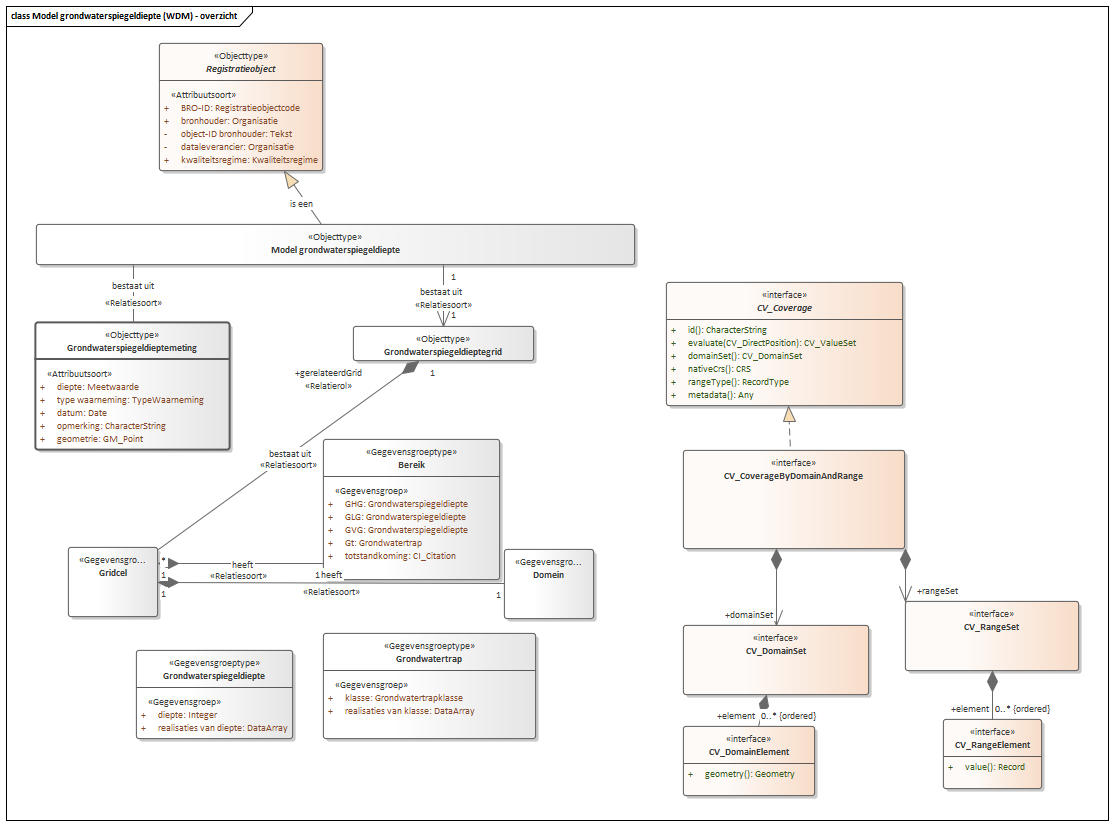
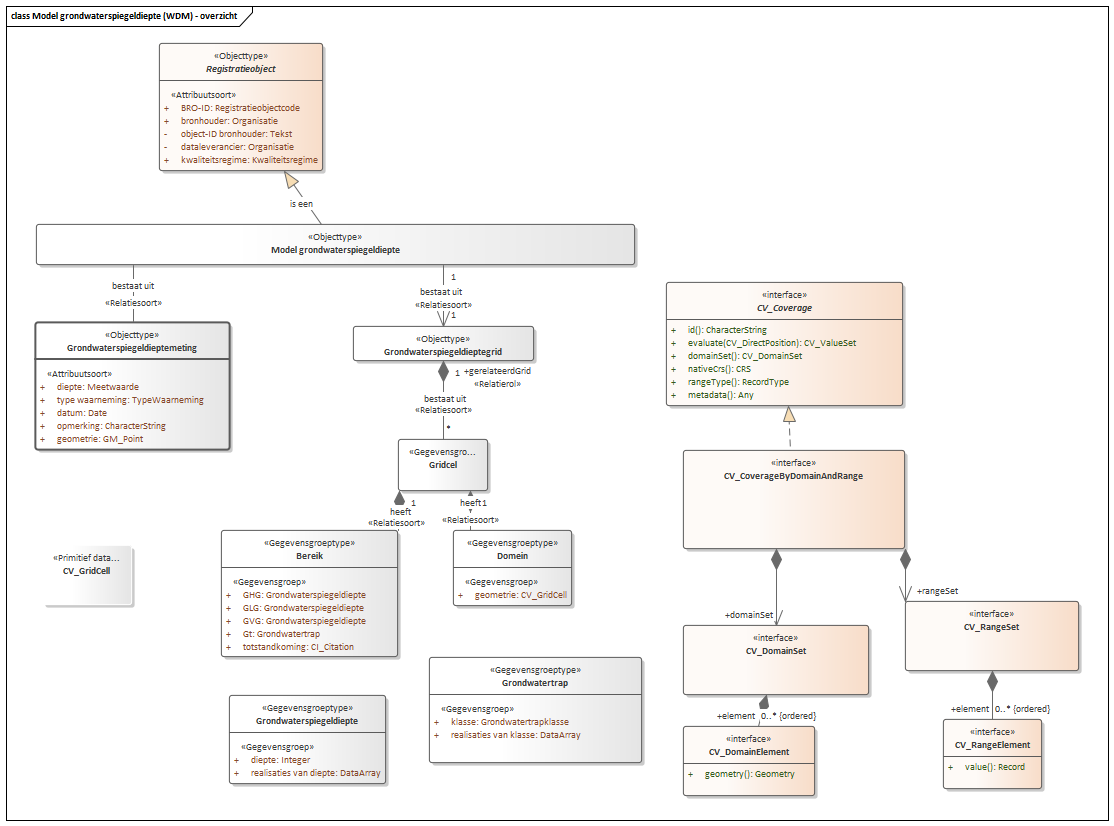
Conceptualmodel-ModelgrondwaterspiegeldiepteWDM-conceptueel-1.0-1-20200721-20201027-121304

diff --git a/data/WDM-cat.msword.html b/data/WDM-cat.msword.html
@@ -15,7 +15,7 @@
    <body>
       <p>Conceptual model/Model grondwaterspiegeldiepte (WDM) - conceptueel/20200721</p>
       <p>Imvertor: 1.61.3</p>
-      <p>Model release: Conceptualmodel-ModelgrondwaterspiegeldiepteWDM-conceptueel-1.0-1-20200721-20201027-120810</p>
+      <p>Model release: Conceptualmodel-ModelgrondwaterspiegeldiepteWDM-conceptueel-1.0-1-20200721-20201027-121304</p>
       <hr>
       <section>
          <h1>Artikel 1 Definitie van registratieobject, entiteiten en attributen</h1>
@@ -50,7 +50,7 @@
          <section>
             <h2>Het domeinmodel</h2>
             <section id="">
-               <div class="imageinfo overview"><img src="Images/EAID_32DF32C8_5066_4b21_A5D5_EE7F2DB49F77.png" usemap="#imagemap-EAID_32DF32C8_5066_4b21_A5D5_EE7F2DB49F77" alt="Diagram "><map name="imagemap-EAID_32DF32C8_5066_4b21_A5D5_EE7F2DB49F77"><area shape="rect" alt="Grondwaterspiegeldiepte" coords="136,650,293,739" href="#graph_EAID_F09743D7_6B95_4243_A403_BEC64D04F7FF"><area shape="rect" alt="Gridcel" coords="68,547,158,617" href="#graph_EAID_D0A6330A_6492_45f1_980C_0E417377CA37"><area shape="rect" alt="Domein" coords="504,549,594,619" href="#graph_EAID_E3897485_3C5F_43f3_9182_9E6E754D984F"><area shape="rect" alt="Grondwaterspiegeldieptegrid" coords="353,326,534,361" href="#graph_EAID_330757FF_F73A_4c69_AFB0_B255971A3DF7"><area shape="rect" alt="Grondwatertrap" coords="323,633,536,739" href="#graph_EAID_58AEC090_D83F_4707_B418_3D9C79CC58CE"><area shape="rect" alt="Bereik" coords="323,439,500,580" href="#graph_EAID_C0D21A75_9A6A_446d_8157_B61183B58A48"><area shape="rect" alt="Grondwaterspiegeldieptemeting" coords="35,322,230,450" href="#graph_EAID_BEAD8A51_C8E2_4fb6_8DF2_52ED4E1FB678"><area shape="rect" alt="Registratieobject" coords="159,43,323,171" href="#graph_EAID_3A7AEE32_4ECA_4822_9009_121A0679605E"><area shape="rect" alt="Model grondwaterspiegeldiepte" coords="36,224,635,265" href="#graph_EAID_FCE5BAFD_33CD_4c9b_878F_04A61B1ED0BE"></map><p><b>Model grondwaterspiegeldiepte (WDM)</b></p>
+               <div class="imageinfo overview"><img src="Images/EAID_32DF32C8_5066_4b21_A5D5_EE7F2DB49F77.png" usemap="#imagemap-EAID_32DF32C8_5066_4b21_A5D5_EE7F2DB49F77" alt="Diagram "><map name="imagemap-EAID_32DF32C8_5066_4b21_A5D5_EE7F2DB49F77"><area shape="rect" alt="Domein" coords="453,530,572,606" href="#graph_EAID_E3897485_3C5F_43f3_9182_9E6E754D984F"><area shape="rect" alt="Gridcel" coords="398,439,488,491" href="#graph_EAID_D0A6330A_6492_45f1_980C_0E417377CA37"><area shape="rect" alt="Grondwaterspiegeldiepte" coords="229,695,386,784" href="#graph_EAID_F09743D7_6B95_4243_A403_BEC64D04F7FF"><area shape="rect" alt="Grondwaterspiegeldieptegrid" coords="353,326,534,361" href="#graph_EAID_330757FF_F73A_4c69_AFB0_B255971A3DF7"><area shape="rect" alt="Grondwatertrap" coords="429,657,642,763" href="#graph_EAID_58AEC090_D83F_4707_B418_3D9C79CC58CE"><area shape="rect" alt="Bereik" coords="221,530,398,657" href="#graph_EAID_C0D21A75_9A6A_446d_8157_B61183B58A48"><area shape="rect" alt="Grondwaterspiegeldieptemeting" coords="35,322,230,450" href="#graph_EAID_BEAD8A51_C8E2_4fb6_8DF2_52ED4E1FB678"><area shape="rect" alt="Registratieobject" coords="159,43,323,171" href="#graph_EAID_3A7AEE32_4ECA_4822_9009_121A0679605E"><area shape="rect" alt="Model grondwaterspiegeldiepte" coords="36,224,635,265" href="#graph_EAID_FCE5BAFD_33CD_4c9b_878F_04A61B1ED0BE"></map><p><b>Model grondwaterspiegeldiepte (WDM)</b></p>
                </div>
             </section>
          </section>
@@ -321,30 +321,6 @@
                         </tbody>
                      </table>
                      </section>
-               </section><a class="anchor" id="graph_EAID_D0A6330A_6492_45f1_980C_0E417377CA37"></a><a class="anchor" id="global_class_ModelGrondwaterspiegeldiepteWDM_Gridcel"></a><section id="global_class_ModelGrondwaterspiegeldiepteWDM_Gridcel">
-                  <h3>   Gridcel</h3>
-                  <table style="width: 100%;">
-                     <colgroup style="width: 30%;"></colgroup>
-                     <colgroup style="width: 70%;"></colgroup>
-                     <tbody>
-                        <tr>
-                           <th>Type gegeven</th>
-                           <td>Entiteit</td>
-                        </tr>
-                     </tbody>
-                  </table>
-               </section><a class="anchor" id="graph_EAID_E3897485_3C5F_43f3_9182_9E6E754D984F"></a><a class="anchor" id="global_class_ModelGrondwaterspiegeldiepteWDM_Domein"></a><section id="global_class_ModelGrondwaterspiegeldiepteWDM_Domein">
-                  <h3>   Domein</h3>
-                  <table style="width: 100%;">
-                     <colgroup style="width: 30%;"></colgroup>
-                     <colgroup style="width: 70%;"></colgroup>
-                     <tbody>
-                        <tr>
-                           <th>Type gegeven</th>
-                           <td>Entiteit</td>
-                        </tr>
-                     </tbody>
-                  </table>
                </section><a class="anchor" id="graph_EAID_58AEC090_D83F_4707_B418_3D9C79CC58CE"></a><a class="anchor" id="global_class_ModelGrondwaterspiegeldiepteWDM_Grondwatertrap"></a><section id="global_class_ModelGrondwaterspiegeldiepteWDM_Grondwatertrap">
                   <h3>   Grondwatertrap</h3>
                   <table style="width: 100%;">
@@ -399,6 +375,30 @@
                               
                               <p>Bereik.</p>
                               </td>
+                        </tr>
+                     </tbody>
+                  </table>
+               </section><a class="anchor" id="graph_EAID_D0A6330A_6492_45f1_980C_0E417377CA37"></a><a class="anchor" id="global_class_ModelGrondwaterspiegeldiepteWDM_Gridcel"></a><section id="global_class_ModelGrondwaterspiegeldiepteWDM_Gridcel">
+                  <h3>   Gridcel</h3>
+                  <table style="width: 100%;">
+                     <colgroup style="width: 30%;"></colgroup>
+                     <colgroup style="width: 70%;"></colgroup>
+                     <tbody>
+                        <tr>
+                           <th>Type gegeven</th>
+                           <td>Entiteit</td>
+                        </tr>
+                     </tbody>
+                  </table>
+               </section><a class="anchor" id="graph_EAID_E3897485_3C5F_43f3_9182_9E6E754D984F"></a><a class="anchor" id="global_class_ModelGrondwaterspiegeldiepteWDM_Domein"></a><section id="global_class_ModelGrondwaterspiegeldiepteWDM_Domein">
+                  <h3>   Domein</h3>
+                  <table style="width: 100%;">
+                     <colgroup style="width: 30%;"></colgroup>
+                     <colgroup style="width: 70%;"></colgroup>
+                     <tbody>
+                        <tr>
+                           <th>Type gegeven</th>
+                           <td>Entiteit</td>
                         </tr>
                      </tbody>
                   </table>
